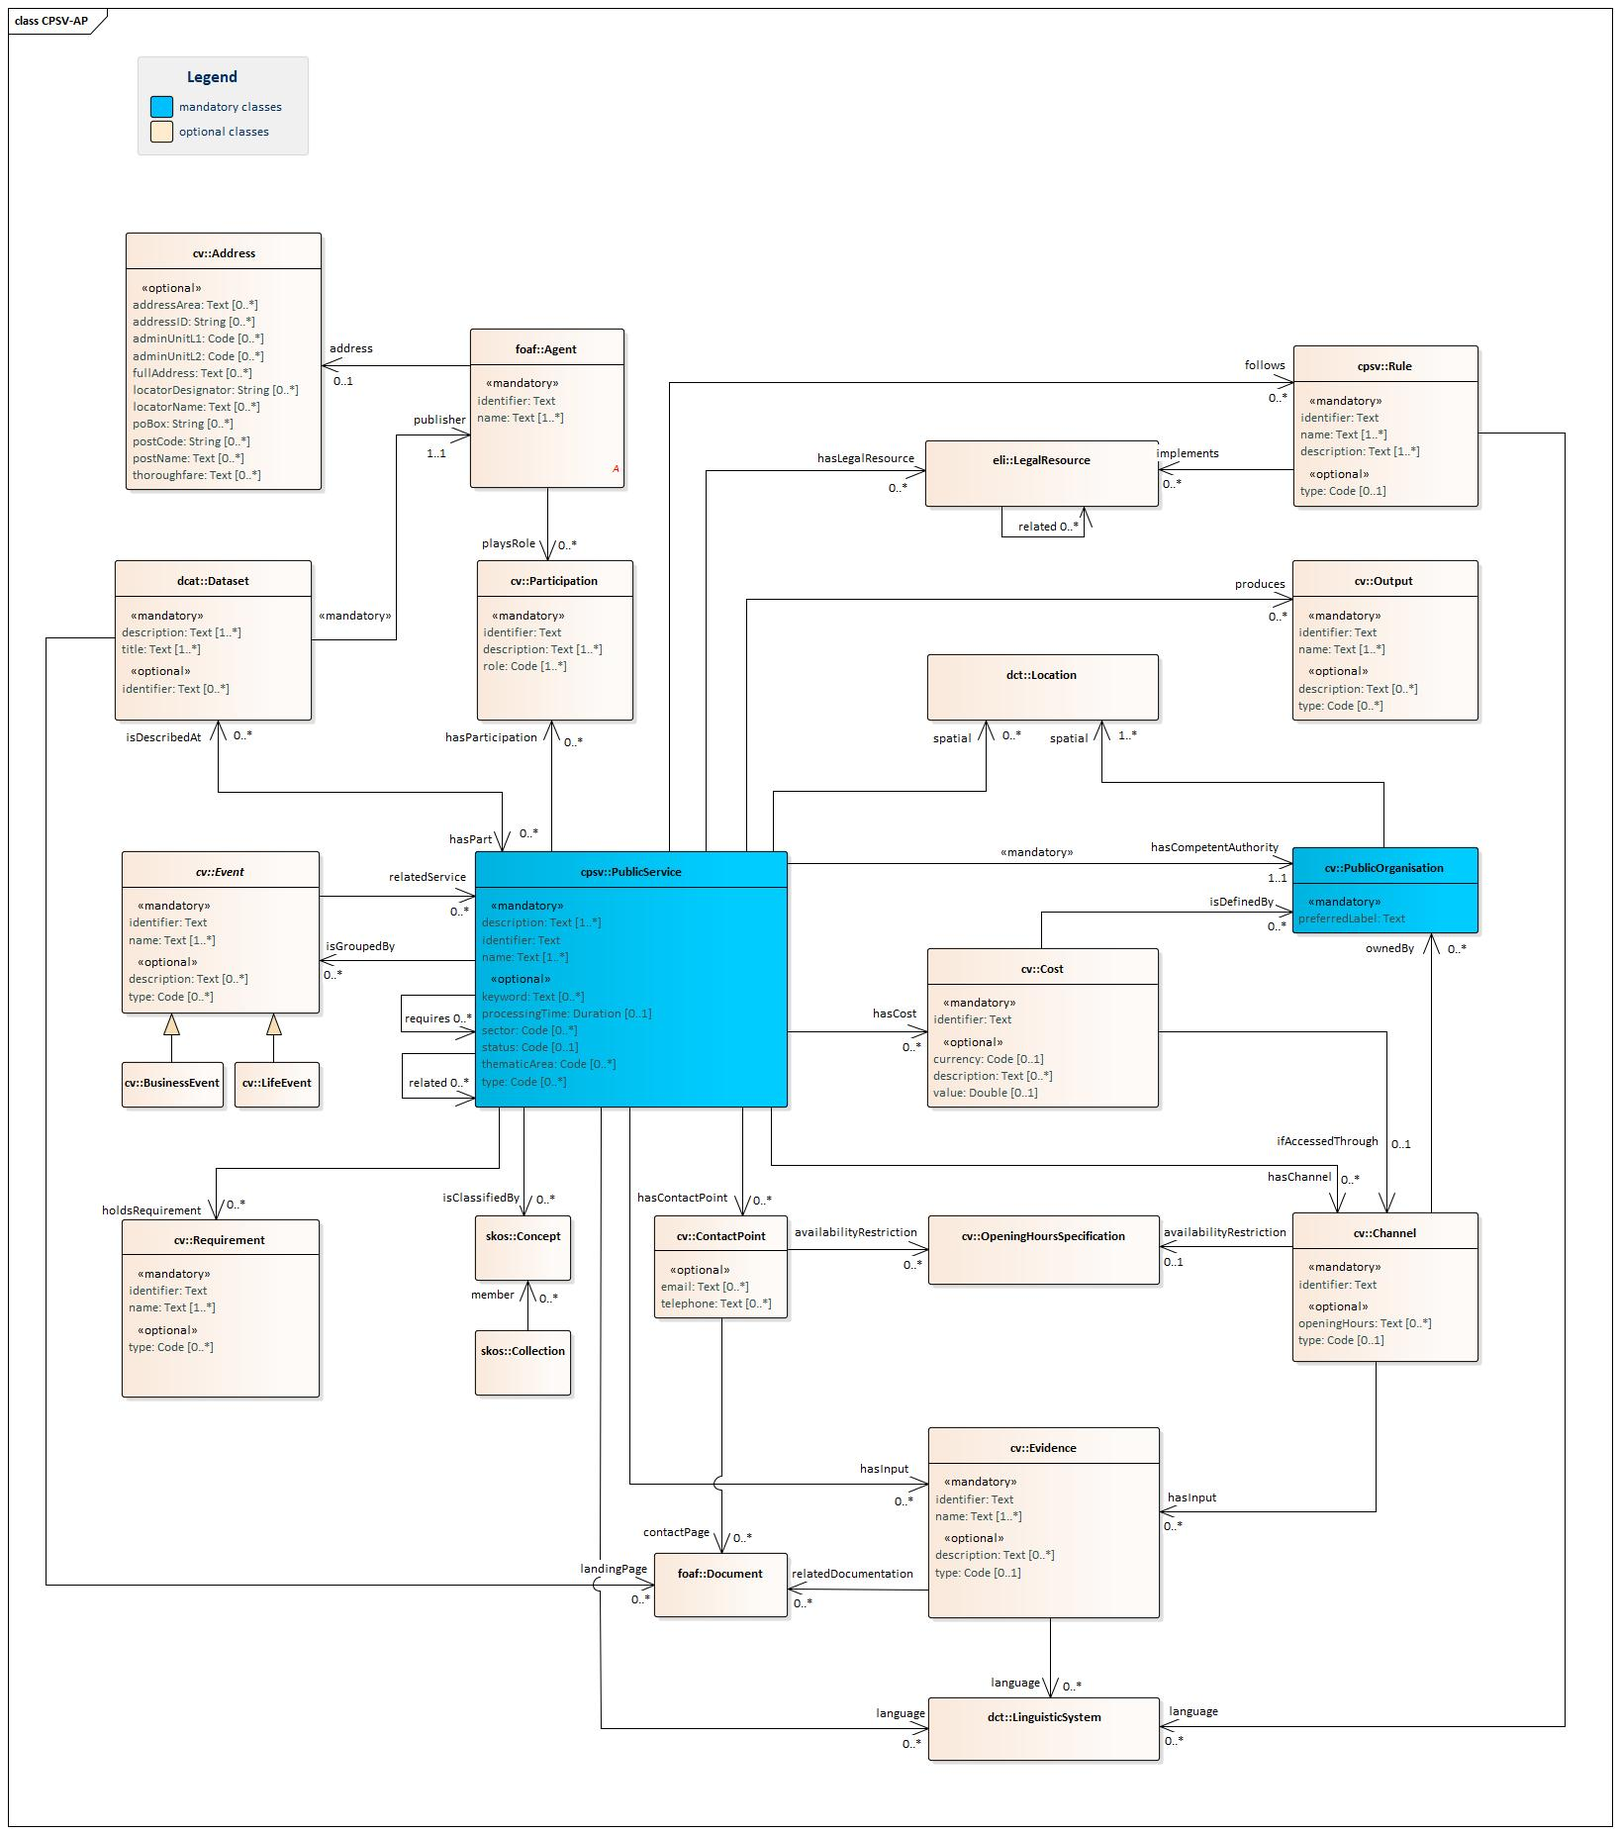
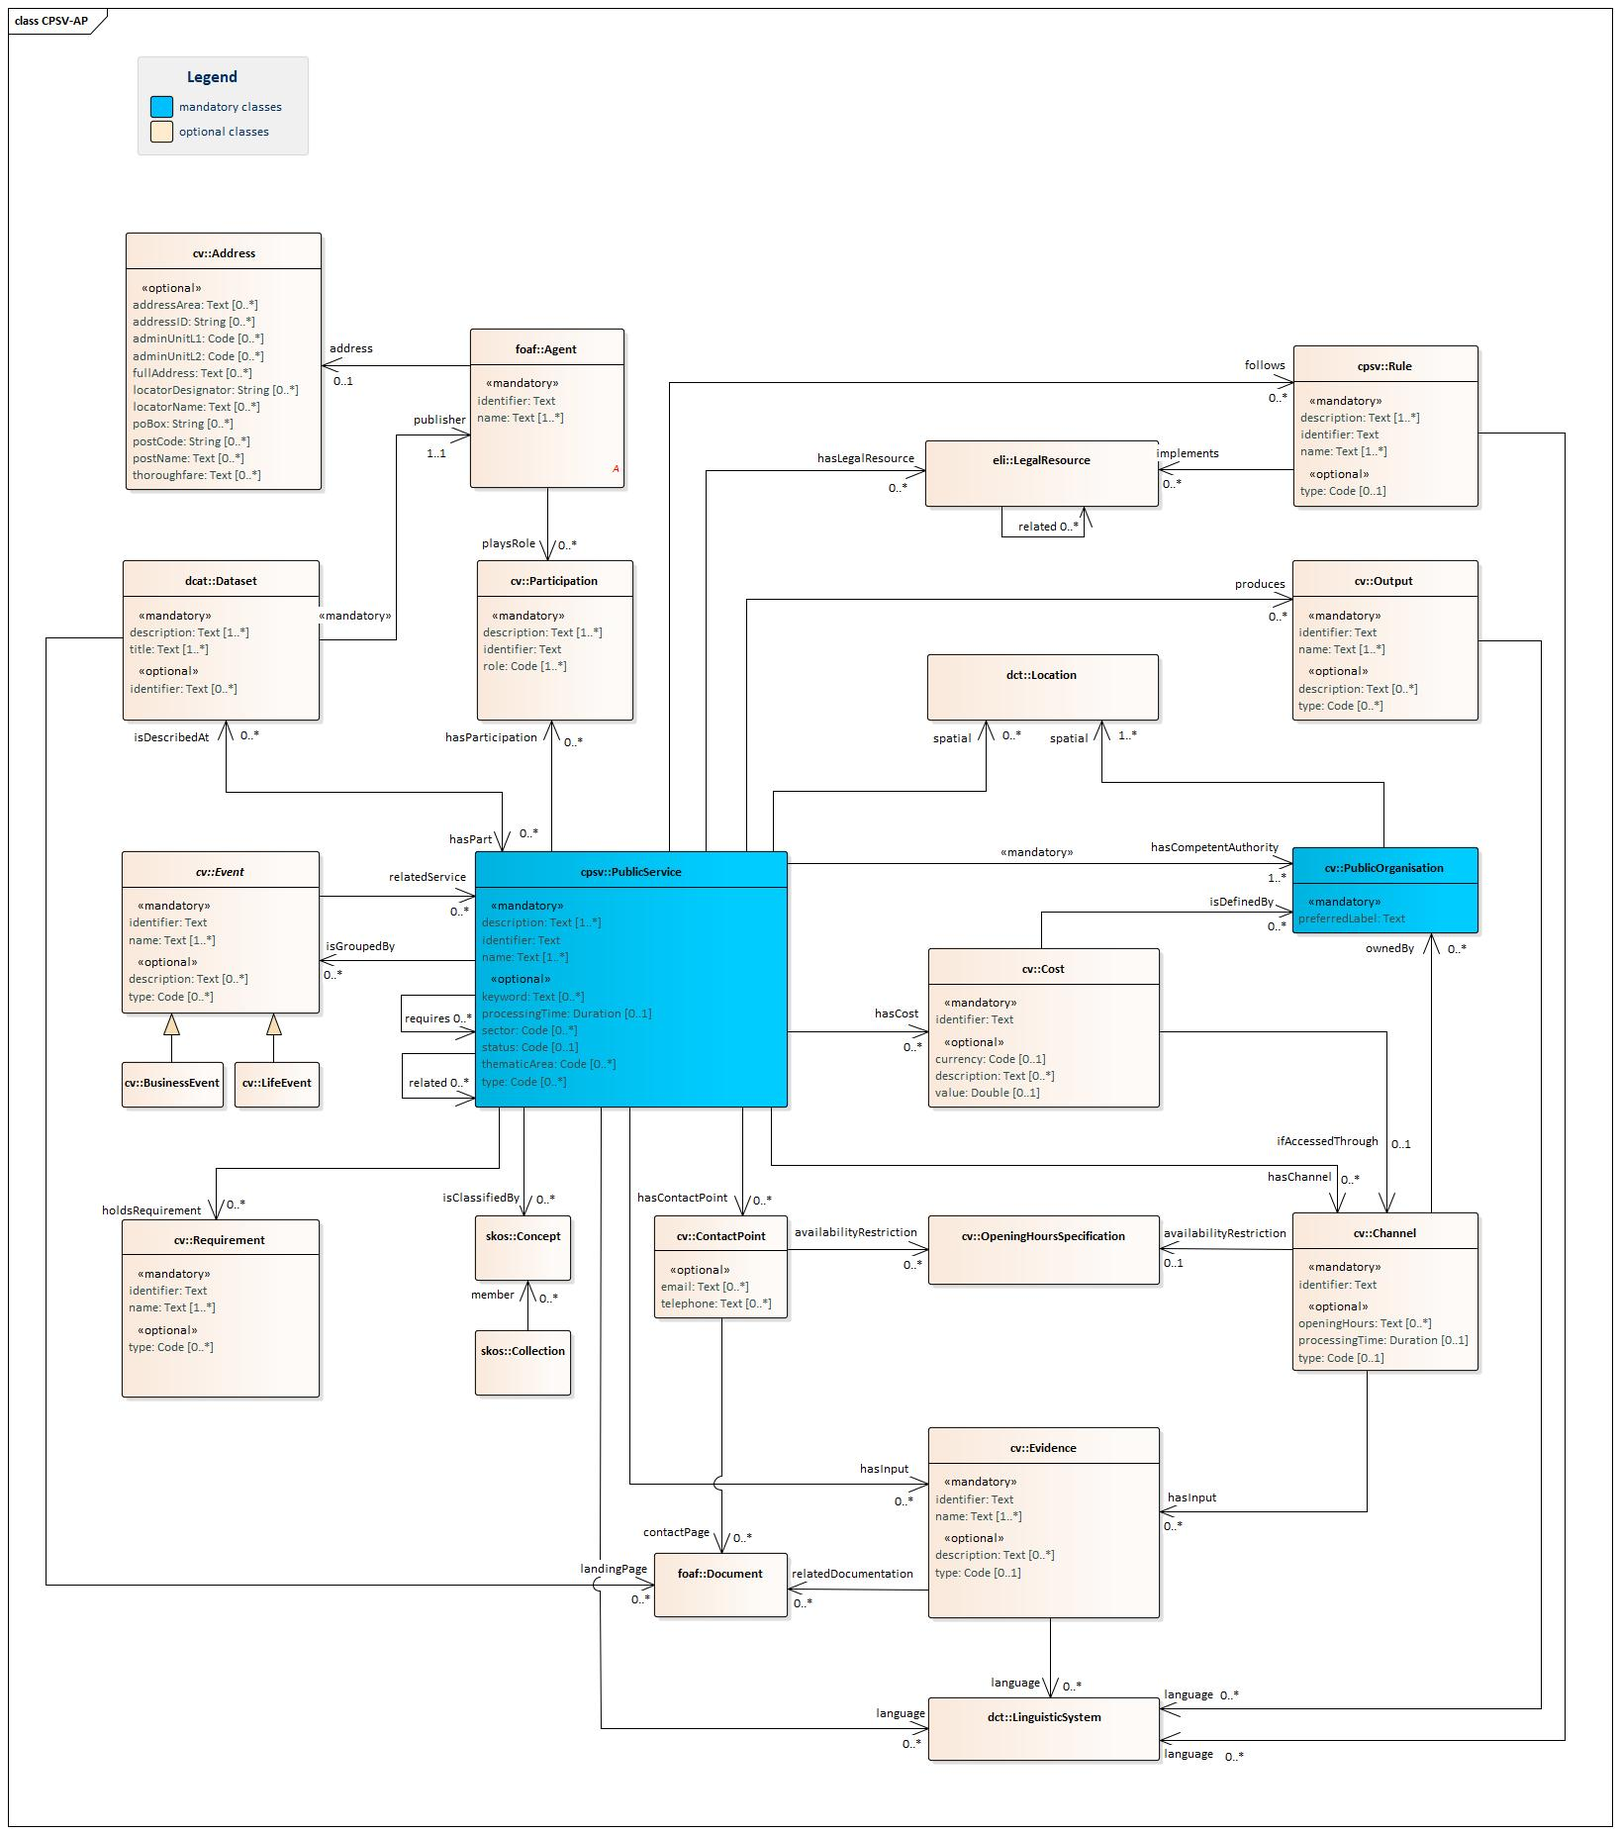
updated release 3.0.0

diff --git a/releases/3.0.0/index.html b/releases/3.0.0/index.html
@@ -190,7 +190,7 @@
               <div class="head" role="metainfo" id="metainfo">
               <dl>
               <dt>Source</dt><dd><a href="https://github.com/catalogue-of-services-isa/CPSV-AP/tree/3.0.0/releases/3.0.0">https://github.com/catalogue-of-services-isa/CPSV-AP/tree/3.0.0/releases/3.0.0</a></dd>
-              <!--<dt>Changelog</dt><dd><a href="git@uri.semic.eu-thema:SEMICeu/uri.semic.eu-thema.git/blob/bf1d32b0a018f8a6c5dfcd5fe2323b092ba2f131/CHANGELOG">git@uri.semic.eu-thema:SEMICeu/uri.semic.eu-thema.git/blob/bf1d32b0a018f8a6c5dfcd5fe2323b092ba2f131/CHANGELOG</a></dd>-->
+              <!--<dt>Changelog</dt><dd><a href="git@uri.semic.eu-thema:SEMICeu/uri.semic.eu-thema.git/blob/f9b9390a5c5558a5038a423e4c660bf7ce1bf83d/CHANGELOG">git@uri.semic.eu-thema:SEMICeu/uri.semic.eu-thema.git/blob/f9b9390a5c5558a5038a423e4c660bf7ce1bf83d/CHANGELOG</a></dd>-->
               <dt>Feedback</dt><dd><a href="https://github.com/catalogue-of-services-isa/CPSV-AP/issues">https://github.com/catalogue-of-services-isa/CPSV-AP/issues</a></dd>
               <!--<dt>Registry of standards</dt><dd><a href="TODO">TODO</a></dd>-->
 
@@ -650,10 +650,10 @@ The key difference between a locator and a locator name is that the latter is a 
 
                     <tbody class="supertype">
                     
-                      <tr id="Agent%3Aaddress" typeof="rdfs:Property" resource="http://data.europa.eu/m8g/address">
+                      <tr id="Agent%3Aaddress" typeof="rdfs:Property" resource="http://www.w3.org/ns/locn#address">
                         <td>
                           <code property="rdfs:label">
-                            <a href="http://data.europa.eu/m8g/address" data-toggle="tooltip" data-content="http://data.europa.eu/m8g/address" data-placement="right">
+                            <a href="http://www.w3.org/ns/locn#address" data-toggle="tooltip" data-content="http://www.w3.org/ns/locn#address" data-placement="right">
                             address</a>
                           </code>
                         </td>
@@ -774,6 +774,7 @@ In other words, a Business Event groups together a number of public services tha
                       <a href="#Channel%3Aidentifier">identifier</a>, 
                       <a href="#Channel%3Aopening%20hours">opening hours</a>, 
                       <a href="#Channel%3Aowned%20by">owned by</a>, 
+                      <a href="#Channel%3Aprocessing%20time">processing time</a>, 
                       <a href="#Channel%3Atype">type</a>.</dd>
                     
                   </dl>
@@ -894,6 +895,26 @@ If it is appropriate to add opening hours then this follows the day so if a phon
                         </td>
 			<td>0..*</td>
                         <td property="rdfs:comment">This property indicates the owner of a specific Channel through which a Public Service is being delivered.</td>
+                        <td property="skos:scopeNote"></td>
+                        <td></td>
+                      </tr>
+                    
+                      <tr id="Channel%3Aprocessing%20time" typeof="rdfs:Property" resource="http://data.europa.eu/m8g/processingTime">
+                        <td>
+                          <code property="rdfs:label">
+                            <a href="http://data.europa.eu/m8g/processingTime" data-toggle="tooltip" data-content="http://data.europa.eu/m8g/processingTime" data-placement="right">
+                            processing time</a>
+                          </code>
+                        </td>
+                        <td>
+                          
+			     
+			    <a href="http://www.w3.org/2001/XMLSchema#duration" data-toggle="tooltip" data-content="http://www.w3.org/2001/XMLSchema#duration" data-placement="right">Duration</a>
+                            
+                          
+                        </td>
+			<td>0..1</td>
+                        <td property="rdfs:comment">The value of this property is the (estimated) time needed for executing a Public Service which may depend on the Channel chosen . The actual information is provided using the ISO8601 syntax for durations. </td>
                         <td property="skos:scopeNote"></td>
                         <td></td>
                       </tr>
@@ -1924,6 +1945,7 @@ schema:validThrough "2017-01-02T09:00Z".
                     <dd>For this entity the following properties are defined:
                       <a href="#Output%3Adescription">description</a>, 
                       <a href="#Output%3Aidentifier">identifier</a>, 
+                      <a href="#Output%3Alanguage">language</a>, 
                       <a href="#Output%3Aname">name</a>, 
                       <a href="#Output%3Atype">type</a>.</dd>
                     
@@ -1982,6 +2004,26 @@ schema:validThrough "2017-01-02T09:00Z".
 			<td>1</td>
                         <td property="rdfs:comment">This property represents an Identifier for the Output.</td>
                         <td property="skos:scopeNote"></td>
+                        <td></td>
+                      </tr>
+                    
+                      <tr id="Output%3Alanguage" typeof="rdfs:Property" resource="http://purl.org/dc/terms/language">
+                        <td>
+                          <code property="rdfs:label">
+                            <a href="http://purl.org/dc/terms/language" data-toggle="tooltip" data-content="http://purl.org/dc/terms/language" data-placement="right">
+                            language</a>
+                          </code>
+                        </td>
+                        <td>
+                          
+			    
+			    <a href="#LinguisticSystem" data-placement="right">LinguisticSystem</a>
+			    
+                          
+                        </td>
+			<td>0..*</td>
+                        <td property="rdfs:comment"></td>
+                        <td property="skos:scopeNote">The possible values for this property are described in the controlled vocabulary <a href=" https://op.europa.eu/en/web/eu-vocabularies/concept-scheme/-/resource?uri=http://publications.europa.eu/resource/authority/language">Language</a> Authority Table of the Publications Office. </td>
                         <td></td>
                       </tr>
                     
@@ -2350,7 +2392,7 @@ behalf, to businesses, citizens or others public administrations.</dd>
 			    
                           
                         </td>
-			<td>1</td>
+			<td>1..*</td>
                         <td property="rdfs:comment">This property links a Public Service to a Public Organization, which is the responsible
 Agent for the delivery of the Public Service. Whether the particular Public
 Organization provides the public service directly or outsources it is not relevant. The
@@ -2717,7 +2759,7 @@ This approach is consistent with both schema.org and the W3C OWL Time Ontology.<
                           
                         </td>
 			<td>0..*</td>
-                        <td property="rdfs:comment">One Public Service may require, or in some way make use of, the output of one or several other Public Services. In this case, for a Public Service to be executed, another Public Service must be executed beforehand. The nature of the requirement will be described in the associated Rule or Input.</td>
+                        <td property="rdfs:comment">One Public Service may require, or in some way make use of, the output of one or several other Public Services. In this case, for a Public Service to be executed, another Public Service must be executed beforehand. The nature of the requirement will be described in the associated Rule or Evidence.</td>
                         <td property="skos:scopeNote"></td>
                         <td></td>
                       </tr>
@@ -3093,7 +3135,7 @@ the Legal Resource under which the Rules are being defined.</td>
                         </td>
 			<td>0..1</td>
                         <td property="rdfs:comment">Type of Rule.</td>
-                        <td property="skos:scopeNote"></td>
+                        <td property="skos:scopeNote">For example: a rule for non-disclosure of a dataset, a rule for disclosure of a dataset, etc.</td>
                         <td></td>
                       </tr>
                     

diff --git a/releases/3.0.0/index_en.html b/releases/3.0.0/index_en.html
@@ -190,7 +190,7 @@
               <div class="head" role="metainfo" id="metainfo">
               <dl>
               <dt>Source</dt><dd><a href="https://github.com/catalogue-of-services-isa/CPSV-AP/tree/3.0.0/releases/3.0.0">https://github.com/catalogue-of-services-isa/CPSV-AP/tree/3.0.0/releases/3.0.0</a></dd>
-              <!--<dt>Changelog</dt><dd><a href="git@uri.semic.eu-thema:SEMICeu/uri.semic.eu-thema.git/blob/bf1d32b0a018f8a6c5dfcd5fe2323b092ba2f131/CHANGELOG">git@uri.semic.eu-thema:SEMICeu/uri.semic.eu-thema.git/blob/bf1d32b0a018f8a6c5dfcd5fe2323b092ba2f131/CHANGELOG</a></dd>-->
+              <!--<dt>Changelog</dt><dd><a href="git@uri.semic.eu-thema:SEMICeu/uri.semic.eu-thema.git/blob/f9b9390a5c5558a5038a423e4c660bf7ce1bf83d/CHANGELOG">git@uri.semic.eu-thema:SEMICeu/uri.semic.eu-thema.git/blob/f9b9390a5c5558a5038a423e4c660bf7ce1bf83d/CHANGELOG</a></dd>-->
               <dt>Feedback</dt><dd><a href="https://github.com/catalogue-of-services-isa/CPSV-AP/issues">https://github.com/catalogue-of-services-isa/CPSV-AP/issues</a></dd>
               <!--<dt>Registry of standards</dt><dd><a href="TODO">TODO</a></dd>-->
 
@@ -650,10 +650,10 @@ The key difference between a locator and a locator name is that the latter is a 
 
                     <tbody class="supertype">
                     
-                      <tr id="Agent%3Aaddress" typeof="rdfs:Property" resource="http://data.europa.eu/m8g/address">
+                      <tr id="Agent%3Aaddress" typeof="rdfs:Property" resource="http://www.w3.org/ns/locn#address">
                         <td>
                           <code property="rdfs:label">
-                            <a href="http://data.europa.eu/m8g/address" data-toggle="tooltip" data-content="http://data.europa.eu/m8g/address" data-placement="right">
+                            <a href="http://www.w3.org/ns/locn#address" data-toggle="tooltip" data-content="http://www.w3.org/ns/locn#address" data-placement="right">
                             address</a>
                           </code>
                         </td>
@@ -774,6 +774,7 @@ In other words, a Business Event groups together a number of public services tha
                       <a href="#Channel%3Aidentifier">identifier</a>, 
                       <a href="#Channel%3Aopening%20hours">opening hours</a>, 
                       <a href="#Channel%3Aowned%20by">owned by</a>, 
+                      <a href="#Channel%3Aprocessing%20time">processing time</a>, 
                       <a href="#Channel%3Atype">type</a>.</dd>
                     
                   </dl>
@@ -894,6 +895,26 @@ If it is appropriate to add opening hours then this follows the day so if a phon
                         </td>
 			<td>0..*</td>
                         <td property="rdfs:comment">This property indicates the owner of a specific Channel through which a Public Service is being delivered.</td>
+                        <td property="skos:scopeNote"></td>
+                        <td></td>
+                      </tr>
+                    
+                      <tr id="Channel%3Aprocessing%20time" typeof="rdfs:Property" resource="http://data.europa.eu/m8g/processingTime">
+                        <td>
+                          <code property="rdfs:label">
+                            <a href="http://data.europa.eu/m8g/processingTime" data-toggle="tooltip" data-content="http://data.europa.eu/m8g/processingTime" data-placement="right">
+                            processing time</a>
+                          </code>
+                        </td>
+                        <td>
+                          
+			     
+			    <a href="http://www.w3.org/2001/XMLSchema#duration" data-toggle="tooltip" data-content="http://www.w3.org/2001/XMLSchema#duration" data-placement="right">Duration</a>
+                            
+                          
+                        </td>
+			<td>0..1</td>
+                        <td property="rdfs:comment">The value of this property is the (estimated) time needed for executing a Public Service which may depend on the Channel chosen . The actual information is provided using the ISO8601 syntax for durations. </td>
                         <td property="skos:scopeNote"></td>
                         <td></td>
                       </tr>
@@ -1924,6 +1945,7 @@ schema:validThrough "2017-01-02T09:00Z".
                     <dd>For this entity the following properties are defined:
                       <a href="#Output%3Adescription">description</a>, 
                       <a href="#Output%3Aidentifier">identifier</a>, 
+                      <a href="#Output%3Alanguage">language</a>, 
                       <a href="#Output%3Aname">name</a>, 
                       <a href="#Output%3Atype">type</a>.</dd>
                     
@@ -1982,6 +2004,26 @@ schema:validThrough "2017-01-02T09:00Z".
 			<td>1</td>
                         <td property="rdfs:comment">This property represents an Identifier for the Output.</td>
                         <td property="skos:scopeNote"></td>
+                        <td></td>
+                      </tr>
+                    
+                      <tr id="Output%3Alanguage" typeof="rdfs:Property" resource="http://purl.org/dc/terms/language">
+                        <td>
+                          <code property="rdfs:label">
+                            <a href="http://purl.org/dc/terms/language" data-toggle="tooltip" data-content="http://purl.org/dc/terms/language" data-placement="right">
+                            language</a>
+                          </code>
+                        </td>
+                        <td>
+                          
+			    
+			    <a href="#LinguisticSystem" data-placement="right">LinguisticSystem</a>
+			    
+                          
+                        </td>
+			<td>0..*</td>
+                        <td property="rdfs:comment"></td>
+                        <td property="skos:scopeNote">The possible values for this property are described in the controlled vocabulary <a href=" https://op.europa.eu/en/web/eu-vocabularies/concept-scheme/-/resource?uri=http://publications.europa.eu/resource/authority/language">Language</a> Authority Table of the Publications Office. </td>
                         <td></td>
                       </tr>
                     
@@ -2350,7 +2392,7 @@ behalf, to businesses, citizens or others public administrations.</dd>
 			    
                           
                         </td>
-			<td>1</td>
+			<td>1..*</td>
                         <td property="rdfs:comment">This property links a Public Service to a Public Organization, which is the responsible
 Agent for the delivery of the Public Service. Whether the particular Public
 Organization provides the public service directly or outsources it is not relevant. The
@@ -2717,7 +2759,7 @@ This approach is consistent with both schema.org and the W3C OWL Time Ontology.<
                           
                         </td>
 			<td>0..*</td>
-                        <td property="rdfs:comment">One Public Service may require, or in some way make use of, the output of one or several other Public Services. In this case, for a Public Service to be executed, another Public Service must be executed beforehand. The nature of the requirement will be described in the associated Rule or Input.</td>
+                        <td property="rdfs:comment">One Public Service may require, or in some way make use of, the output of one or several other Public Services. In this case, for a Public Service to be executed, another Public Service must be executed beforehand. The nature of the requirement will be described in the associated Rule or Evidence.</td>
                         <td property="skos:scopeNote"></td>
                         <td></td>
                       </tr>
@@ -3093,7 +3135,7 @@ the Legal Resource under which the Rules are being defined.</td>
                         </td>
 			<td>0..1</td>
                         <td property="rdfs:comment">Type of Rule.</td>
-                        <td property="skos:scopeNote"></td>
+                        <td property="skos:scopeNote">For example: a rule for non-disclosure of a dataset, a rule for disclosure of a dataset, etc.</td>
                         <td></td>
                       </tr>
                     
